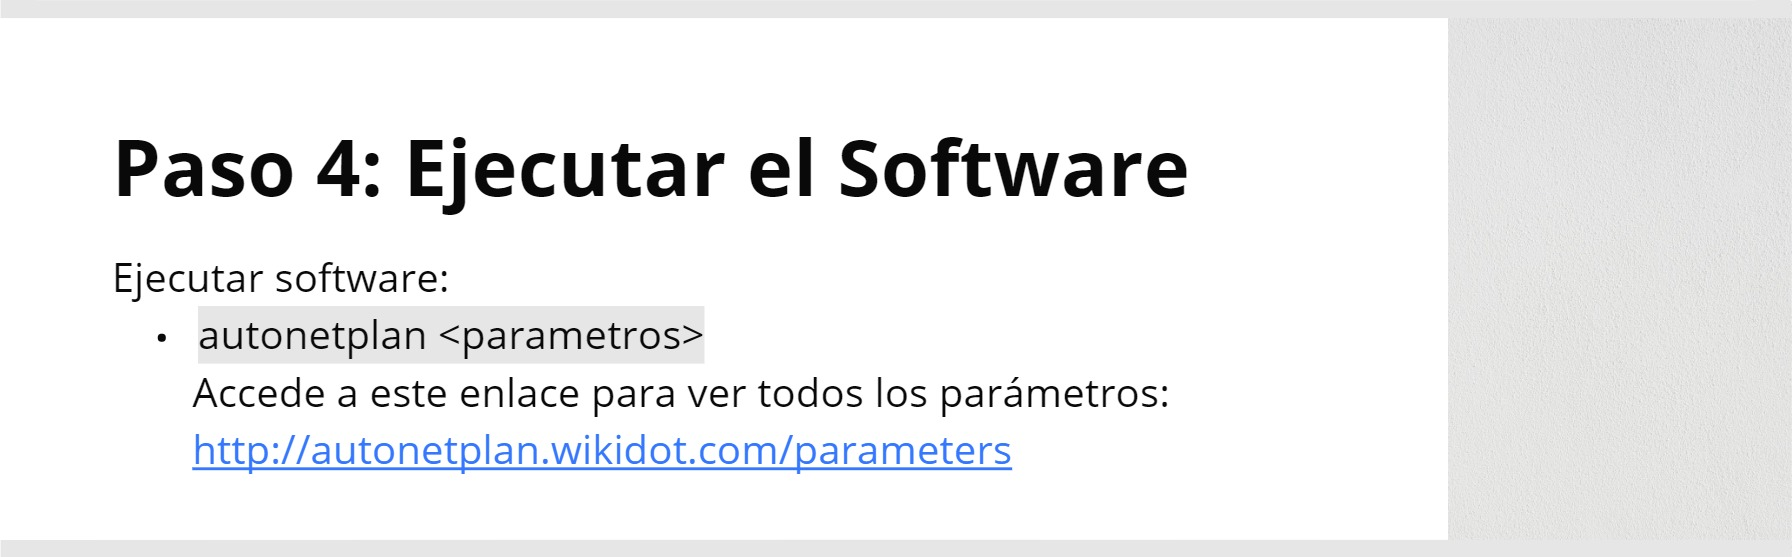
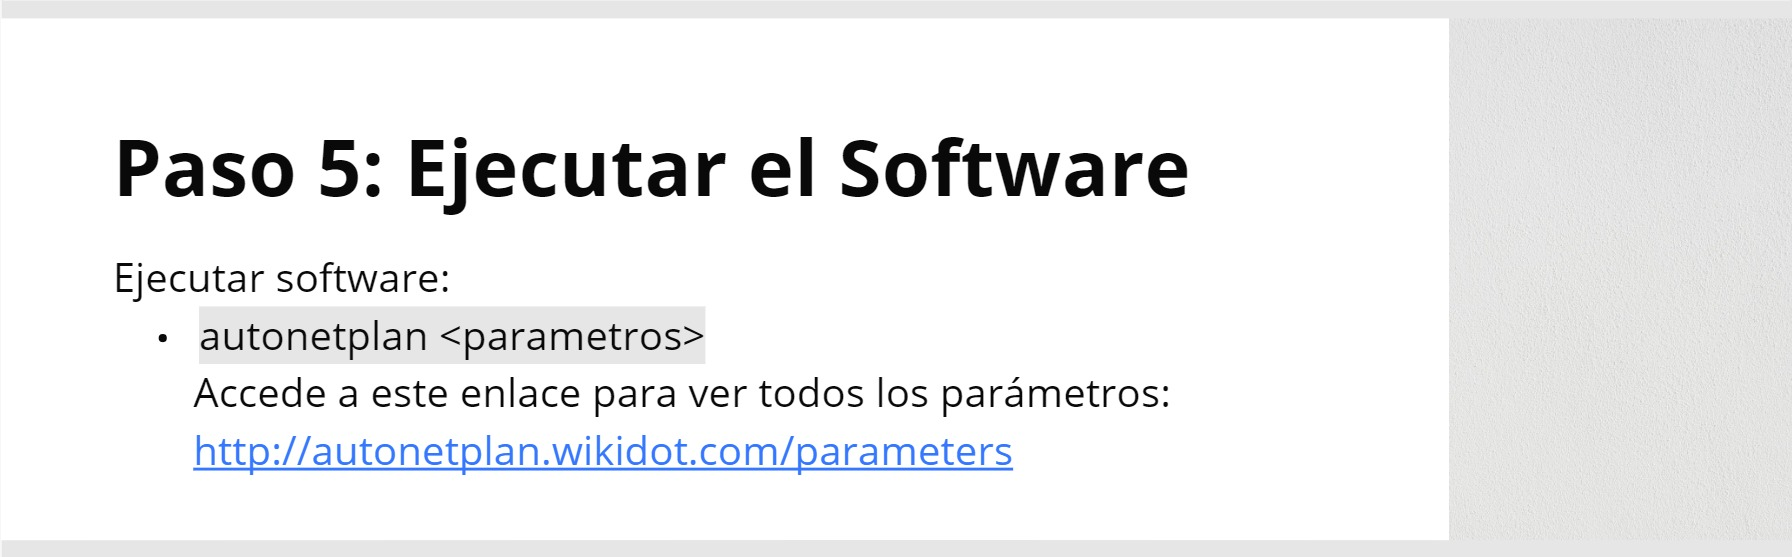
0.6.3-2

diff --git a/README.md b/README.md
@@ -31,3 +31,8 @@ cd autonetplan
 ```sh
 sudo bash install.sh
 ```
+![Logo principal](public-storage/installation5.jpg)
+```sh
+autonetplan <parametros>
+```
+Accede a la página web haciendo clic [aqui](http://autonetplan.wikidot.com/parameters).
